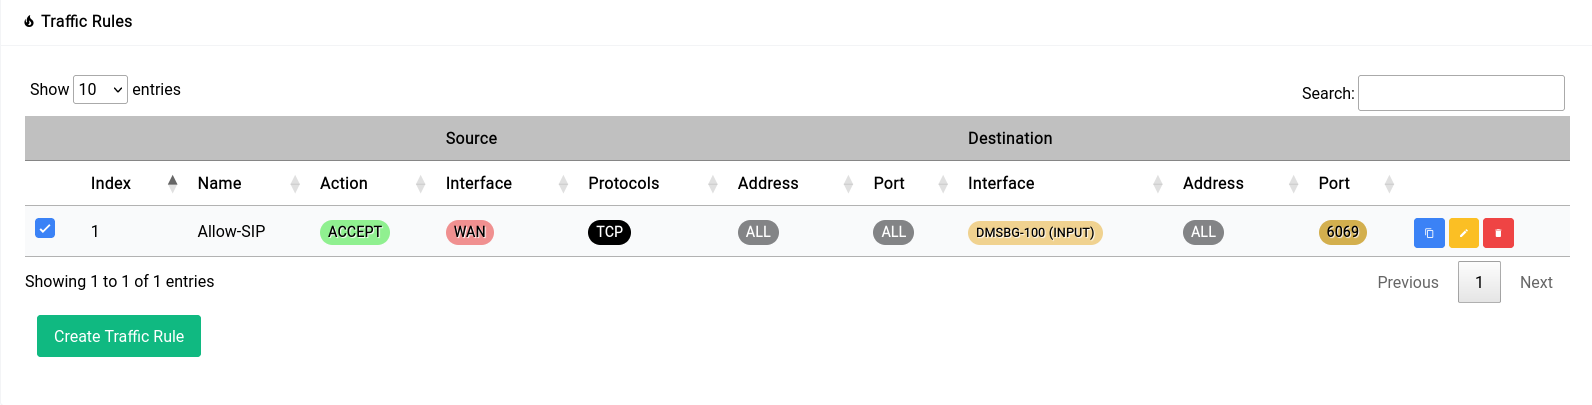
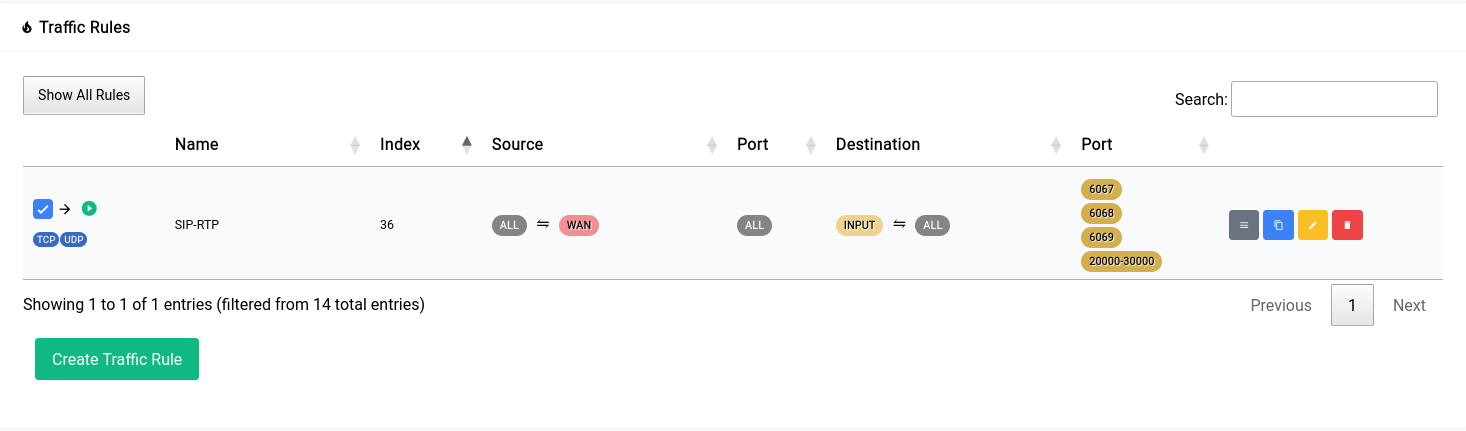
firewall rules: changes

diff --git a/src/firewall/traffic-rules.md b/src/firewall/traffic-rules.md
@@ -4,16 +4,21 @@ Traffic rules are used to control the flow of incoming and outgoing traffic on a
 
 For purposes of demonstration we are going to create 4 firewall rules:
 
-1. A rule that allows connections to the TLS SIP Port (**6069**) that the underlying asterisk instance uses.
-2. A rule allows RTP connections in the default port range (**20000-30000**) that the underlying asterisk instance uses.
-3. A rule that allows for remote administration of Difuse (port **443** and **80**).
-4. A rule that let’s all traffic through to a specific globally routable **IPv6** address.
+1. A rule that allows connections to all the SIP and RTP ports which are:
+   * SIP: 6067 (**UDP**)
+   * SIP: 6068 (**TCP**)
+   * SIP TLS: 6069 (**TCP**)
+   * RTP: 20000-30000 (**UDP**)
+
+
+2. A rule that allows for remote administration of Difuse using the TCP ports 80 and 443.
+3. A rule that let’s all traffic through to a specific globally routable **IPv6** address.
 
 ```admonish info
-Index’s are assigned automatically at the creation of a new rule. You can edit them later to placed before or after a particular rule if need be using the same index field.
+Index’s are assigned automatically at the creation of a new rule. You can edit them later to placed before or after a particular rule if need be using the same index field or you can use the grey button in the table to drag and drop the rules in the order you want.
 ```
 
-## Allowing TLS SIP Connections
+## Allowing SIP and RTP connections
 
 This is what adding the rule should look like:
 
@@ -41,56 +46,23 @@ Once you click apply you will see it go away and the rule you added will show up
   <img src="./img/15.png" width="95%" />
 </a>
 
-## Allowing UDP Port Range
-
-Now if you think about it, the next rule we’re going to make is pretty similar to that of the first one with few key changes namely:
-
-* The protocol is **UDP** instead of **TCP**
-* The port is a range of **30000-40000** instead of being just **6069**
-
-But all the other options are identical, in this case we can make use of the copy function that is present in the last column of the table denoted by the blue button.
-
-```admonish warn
-When you make a copy of a rule all unsaved changes are automatically written to disk.
-```
-
-The copy of the rule you made should show up in the list like this:
-
-<a data-fancybox data-src="./img/16.png" data-caption="Firewall - Traffic Rules - Added Rule - 2">
-  <img src="./img/16.png" width="95%" />
-</a>
-
-Now we can edit the second rule by clicking on the yellow edit button, the edited rule would look something like this:
-
-<a data-fancybox data-src="./img/17.png" data-caption="Firewall - Traffic Rules - Edit Rule - 2">
-  <img src="./img/17.png" width="95%" />
-</a>
-
-Again just like the first rule, it’ll go into the unsaved changes pill and once you apply the changes it should look something like this in the table:
-
-<a data-fancybox data-src="./img/18.png" data-caption="Firewall - Traffic Rules - Added Rule - 2">
-  <img src="./img/18.png" width="95%" />
-</a>
-
-Now there’s a reason why these rules are not turned on by default, the reason being that it’s **incredibly** insecure to have an open SIP port. You should make **sure** that all the extensions in your system are using really strong passwords among other things before you make such a rule.
-
 ## Allowing Remote Administration
 
-For this rule we’re gonna make use of a Ports Alias. Namely “HTTP ports” alias that has the ports 80 and 443 defined. These are the ports that Difuse uses for remote management. This would save us from having to create 2 separate rules.
+For this rule we’re gonna make use of a Ports Alias. Namely the “HTTP” alias that has the ports 80 and 443 defined. This is just for demonstration you could also just specify the ports directly with a space in between them.
+
+```admonish warning
+This is an exceedingly **bad** idea. You should never allow remote administration of your router with source set to ANY ip unless you know what you're doing. We're just using this as an example.
+```
 
 <a data-fancybox data-src="./img/19.png" data-caption="Firewall - Traffic Rules - Add Rule - 3">
   <img src="./img/19.png" width="95%" />
 </a>
 
-If you remember in our **Aliases** setup we mentioned that the firewall rule must make it abundantly which family of IP Addresses (IPv4 or IPv6) the rule should be applied for.
-
-Since we didn’t specify any source or destination addresses and there’s an alias involved, this rule will automatically **only** be applied for **IPv4** addresses.
+The unsaved changes modal should look something like this:
 
 <a data-fancybox data-src="./img/20.png" data-caption="Firewall - Traffic Rules - Gist - 3">
   <img src="./img/20.png" width="95%" />
 </a>
-
-As you can see from the unsaved pages dialogue. If you’re not using IPv6 it’s fine but if you are and want IPv6 hosts to be able to access something as well it’s a good idea to make a second rule by copying the first rule and specifying the source or destination address as `::0/0`. This would **coerce** the underlying system to use IPv6 as the port alias type.
 
 After the rule has been made the table should look something like this:
 
@@ -100,6 +72,10 @@ After the rule has been made the table should look something like this:
 
 ## Allowing All Traffic to a Specific IPv6 Address
 
+```admonish warning
+It's a **bad** idea to allow all traffic to a specific IPv6 address. You should only do this if you know what you're doing, we're just using this as an example.
+```
+
 If your ISP hands out a sufficiently large prefix (/64 or below) all devices on the host network should already have a globally routable IPv6 address. Now in this case we want the firewall to let all traffic flow to and from a specific IPv6 address without any blocks whatsoever.
 
 First you need to find the IPv6 address of the host and then create a new rule. The new rule would look something like this:
@@ -107,7 +83,3 @@ First you need to find the IPv6 address of the host and then create a new rule. 
 <a data-fancybox data-src="./img/22.png" data-caption="Firewall - Traffic Rules - Add Rule - 4">
   <img src="./img/22.png" width="95%" />
 </a>
-
-```admonish note
-It's a bad idea to allow all traffic to a specific IPv6 address. You should only do this if you know what you're doing, we're just using this as an example.
-```

diff --git a/src/firewall/aliases.md b/src/firewall/aliases.md
@@ -7,7 +7,7 @@ Aliases are a way to define a group of network objects, such as IP addresses (in
 Let’s explore aliases through 2 examples, one where we define a manual alias and another where we take a look at automated aliases.
 
 * <b>Manual Aliases</b>: This type of alias is where you specify the IP Address in CIDR notation (or ports in the case of a ports alias) yourself.
-* <b>Automated Aliases</b>: This type of alias is where you specify a network interface and the alias will automatically populate with the IP Addresses of the devices connected to that interface.
+* <b>Automated Aliases</b>: This type of alias is where you specify a list that is present in the system and the system automatically updates the list in a timely manner.
 
 ### Manual Aliases
 
@@ -88,7 +88,7 @@ Now once an alias has been created with one of the automated lists, it should lo
 They can also be used in the firewall in the same way as shown for manual aliases.
 
 ```admonish note
-It should be clear in the particular traffic rule whether it is of the family IPv4 or the family IPv6 if you’re using an automated list. Meaning you should set the destination or source address of the IPv4 or IPv6 family. It could even be **0.0.0.0/0** or **::0/0** for IPv4 and IPv6 respectively. This is to let the underlying engine know which version of the list to use for that particular rule.
+It should be clear in the particular traffic rule whether it is of the family IPv4 or the family IPv6 if you’re using an automated list. You can pick the family of a traffic rule in the form.
 ```
 
 ## Ports Aliases
@@ -107,4 +107,4 @@ Once you create the alias it should show up in the table like this:
   <img src="./img/9.png" width="95%" />
 </a>
 
-It’s imperative to note that you should **NOT** use **aliases** or **traffic rules** to block specific websites on the LAN, instead the **Content Filtering & Adblock** service should be used. Due to advent of services like cloudflare (which incidentally a lot of websites use) multiple hundreds or even thousand websites may share the same IP address, which makes it very hard to just block one or two websites with traffic rules.
+It’s imperative to note that you should **NOT** use **aliases** or **traffic rules** to block specific websites on the LAN, instead the **Content Filtering & Adblock** service should be used. Due to advent of services like cloudflare (which incidentally a lot of websites use) multiple hundreds or even thousands websites may share the same IP address, which makes it very hard to just block one or two websites with traffic rules.

diff --git a/src/firewall/port-forwarding.md b/src/firewall/port-forwarding.md
@@ -4,6 +4,11 @@ Port forwarding is a networking technique that allows incoming traffic to reach 
 
 In other words, port forwarding allows a device on a private network, such as a home network, to receive incoming traffic from the internet. It is often used to allow remote access to services running on a computer or device behind a router or firewall, such as web servers, FTP servers, or gaming servers.
 
+```admonish note
+Only the **source** field can have an alias for portfowards, unlike traffic rules which can have both **source** and **destination** aliases.
+```
+
+
 Now for purposes of demonstration we have an HTTP server listening on port 2525 on the IP 192.168.1.143. We need all hits to WAN IP and port 2525 to forward to that IP and port on the internal network
 
 The new rule would look something like this:
